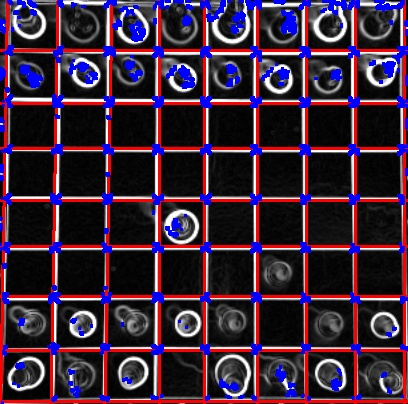
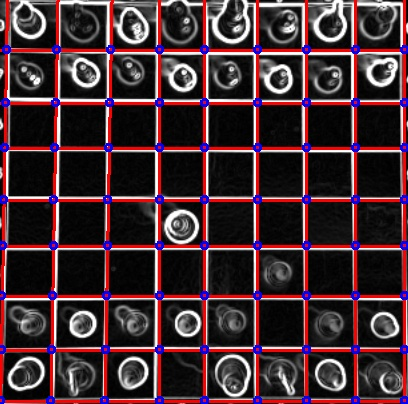
find intersections

diff --git a/test.py b/test.py
@@ -1,14 +1,6 @@
 import cv2
 import numpy as np
 
-img = cv2.imread('img/sobelcropped.png')
-horizontal_lines, vertical_lines = hough_lines(img)
-
-# more lines than necessary, so merge
-if (len(vertical_lines) * len(horizontal_lines) > 49):
-    merge_lines(vertical_lines)
-    merge_lines(horizontal_lines)
-
 # only use horizontal/vertical lines
 def valid_line(theta):
     DIFFERENCE = np.pi/70
@@ -57,16 +49,62 @@ def merge_lines(lines):
                 abs(lines[i]['theta'] - lines[j]['theta']) < THETA_DIFF and 
                 abs(lines[i]['rho'] - lines[j]['rho']) < MAGNITUDE_DIFF):
                 del lines[j]
-                print('similar')
             j+=1
         i+=1
 
-# display lines
-for vert_line in vertical_lines:
-    cv2.line(img,vert_line['p1'],vert_line['p2'],(0,0,255),2)
+def sort_lines(lines, orientation):
+    if orientation == 'horizontal':
+        ind = 1
+    elif orientation == 'vertical':
+        ind = 0
+    # sort by average of points
+    return sorted(lines, key=lambda line: (line['p1'][ind] + line['p1'][ind])/2)
 
-for hori_line in horizontal_lines:
-    cv2.line(img,hori_line['p1'],hori_line['p2'],(0,0,255),2)
 
-def find_intersection(line1, line2):
-    pass
+def find_intersection(line1, line2, img):
+    # diff in x-coordinates for both lines
+    diffx1 = line1['p1'][0] - line1['p2'][0]
+    diffx2 = line2['p1'][0] - line2['p2'][0]
+    # slopes
+    m1 = None if (diffx1 == 0) else (line1['p1'][1] - line1['p2'][1]) / diffx1
+    m2 = None if (diffx2 == 0) else (line2['p1'][1] - line2['p2'][1]) / diffx2
+    # y-intercepts
+    b1 = None if (diffx1 == 0) else line1['p1'][1] - m1 * line1['p1'][0]
+    b2 = None if (diffx2 == 0) else line2['p1'][1] - m2 * line2['p1'][0]
+
+    # assume we only have 1 vertical line
+    if m1 == None:
+        x = line1['p1'][0]
+    elif m2 == None:
+        x = line2['p1'][0]
+    else:
+        x = ((b2-b1) / (m1-m2))
+
+    y = m1 * x + b1
+    cv2.circle(img, (x, y), 3, (255, 0, 0), 2)
+    return (x,y)
+
+if __name__ == '__main__':
+    img = cv2.imread('img/sobelcropped.png')
+    horizontal_lines, vertical_lines = hough_lines(img)
+
+    # more lines than necessary, so merge
+    if (len(vertical_lines) * len(horizontal_lines) > 49):
+        merge_lines(vertical_lines)
+        merge_lines(horizontal_lines)
+    vertical_lines = sort_lines(vertical_lines, 'vertical')
+    horizontal_lines = sort_lines(horizontal_lines, 'horizontal')
+    print(len(horizontal_lines), len(vertical_lines))
+
+    # display lines
+    for vert_line in vertical_lines:
+        cv2.line(img,vert_line['p1'],vert_line['p2'],(0,0,255),2)
+
+    for hori_line in horizontal_lines:
+        cv2.line(img,hori_line['p1'],hori_line['p2'],(0,0,255),2)
+
+    for hori_line in horizontal_lines:
+        for vert_line in vertical_lines:
+            print(find_intersection(hori_line, vert_line, img))
+
+    cv2.imwrite('houghlines3.jpg',img)
